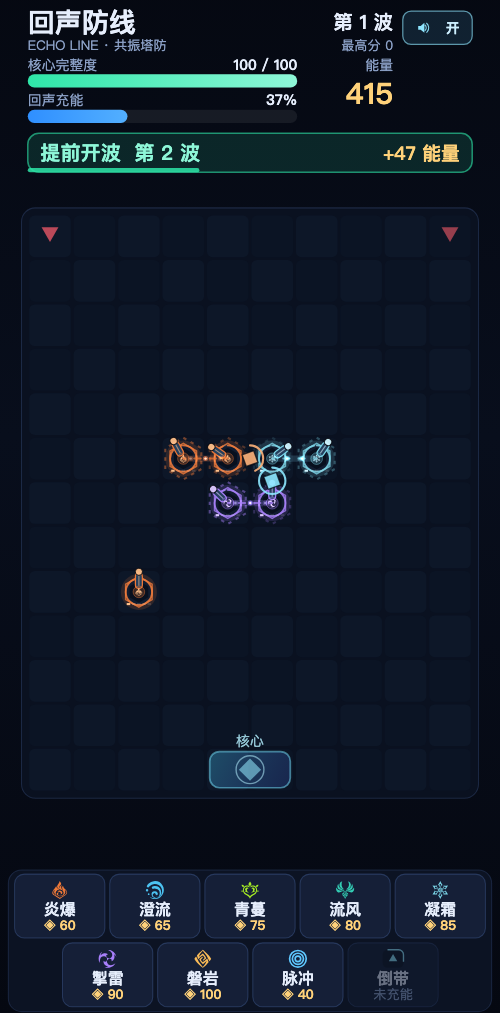
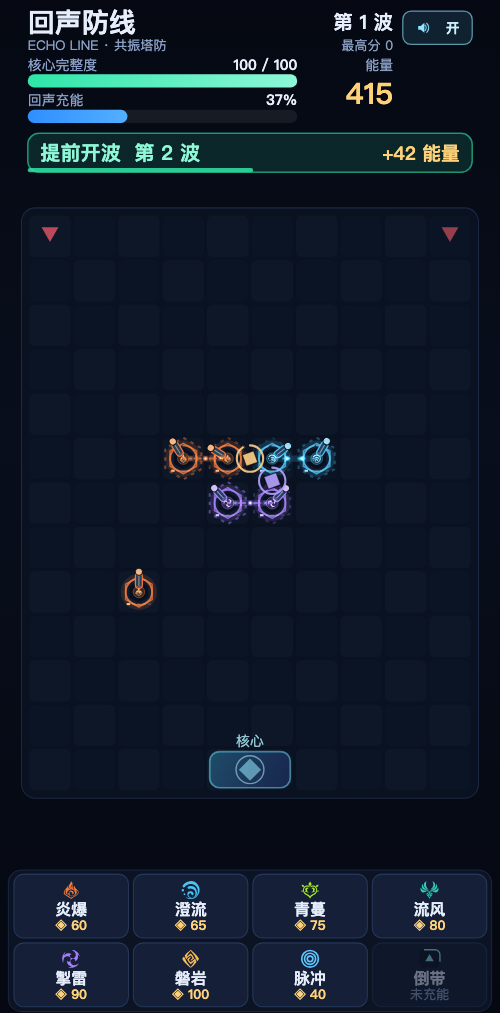
feat: 冰塔「凝霜」暂时下线，建造栏收成 8 张卡（两行 4+4）
- CFG.TOWERS.cryo 定义块与 TOWER_ORDER 里的 'cryo' 用注释下线：元素配色、5 条
  cryo 反应、icons.js 图标数据、towers.js 冻结分支、audio.js 音色派发全部留档，
  解开两处注释即完全恢复
- 卡片 9 张 → 8 张，perRow 自动变 4：卡宽 129 → 164，两行 4+4 对称
- 玩法页「七元素炮塔」改「六元素炮塔」、反应表去掉冰条目（行数不变，版式零回归）
- 自检/截图工具链的摆塔方案 cryo → hydro（simulate/preview/shot/font-check/boot）
- layout-check：塔数不再恒等于元素数，改判「每座塔的元素都有定义与图标」+「塔数 ≤ 元素数」；
  坐标锁 cardW 129 → 164
- ES5 扫描脚本的注释剔除正则修正（(^|:) 兼容单文件 grep 输出，之前会把块注释误报成代码）
- README：加冰塔留档说明、20 对反应（草+冰不反应）、澄清「减少卡片张数省不了栏高」

AI修改关键词：冰塔下线留档、可见塔数 6、卡片 4+4、卡宽 164、元素留档恢复法、断言去耦、ES5 扫描正则修正

diff --git a/js/config.js b/js/config.js
@@ -35,6 +35,8 @@
   /* ---------------- 元素（七元素，反应规则对齐原神） ----------------
    * 火pyro / 水hydro / 冰cryo / 雷electro / 风anemo / 岩geo / 草dendro
    * color 取原神元素色的近似（保夜色背景下可读），soft 是高亮/描边用浅色。
+   * 七个元素全部保留：cryo 当前没有上场塔（凝霜暂下线），但配色、图标、反应条目
+   * 全部留档 —— 少一个元素就少 6 条反应，删掉再想加回来代价太大。
    */
   CFG.ELEM = {
     pyro:    { key: 'pyro',    name: '火', color: '#ef7938', soft: '#ffc08a' },
@@ -46,8 +48,8 @@
     dendro:  { key: 'dendro',  name: '草', color: '#a5ec25', soft: '#dcff96' }
   };
 
-  /* ---------------- 防御塔（7 座，攻击方式各有分工） ----------------
-   * bolt   直射弹（火）           wave  范围减速波（水/冰，冰带冻结概率）
+  /* ---------------- 防御塔（上场 6 座，攻击方式各有分工） ----------------
+   * bolt   直射弹（火）           wave  范围减速波（水；冰同型，见下方留档块）
    * chain  连锁闪电（雷）         gust  龙卷推开（风）
    * spike  重击单体（岩）         spore 落孢毒域（草，持续伤害）
    */
@@ -72,11 +74,17 @@
       dmg: 7, range: 138, rate: 0.80,
       kind: 'gust', aoe: 96, push: 40
     },
+    /* ——— 凝霜（冰）暂时下线：整块留档，恢复 = 解开本段与 TOWER_ORDER 的注释 ———
+     * 下线原因：和水塔同为 kind:'wave'（范围减速波），定位重叠最高；
+     * 卡片从 9 张收到 8 张后正好两行 4+4，卡宽 129 → 164，元素图标看得清。
+     * 留档的东西：CFG.ELEM.cryo、RES.reactions 里的 5 条 cryo 反应、icons.js 的冰图标、
+     * towers.js 的冻结概率分支、audio.js 的 shootFrost 派发 —— 解注即全部生效。
     cryo: {
       key: 'cryo', name: '凝霜', elem: 'cryo', cost: 85, hp: 260,
       dmg: 10, range: 164, rate: 0.85,
       kind: 'wave', aoe: 58, slow: 0.50, slowT: 2.0, freezeChance: 0.22, freezeT: 1.1
     },
+    —————————————————————————————————————————————————————————————— */
     electro: {
       key: 'electro', name: '掣雷', elem: 'electro', cost: 90, hp: 240,
       dmg: 24, range: 192, rate: 0.70,
@@ -88,7 +96,10 @@
       kind: 'spike', stun: 0.45
     }
   };
-  CFG.TOWER_ORDER = ['pyro', 'hydro', 'dendro', 'anemo', 'cryo', 'electro', 'geo'];
+  /* 上场塔的元素顺序（卡片按这个顺序铺两行）。
+   * 凝霜（冰）已下线：把 'cryo' 解注回 anemo 与 electro 之间，同时解开上面 CFG.TOWERS
+   * 里的 cryo 定义块，两处一起解即完全恢复（元素、反应表、图标、音效都还在）。 */
+  CFG.TOWER_ORDER = ['pyro', 'hydro', 'dendro', 'anemo', /* 'cryo', */ 'electro', 'geo'];
 
   /** 等级成长 */
   CFG.LV = {
@@ -394,9 +405,8 @@
     var boardY = contentTop +
       Math.max(0, (barY - contentTop - CFG.BOARD_H - RESERVE_BELOW) / 2);
 
-    /* 卡片：两行铺开（7 塔 + 脉冲 + 倒带 = 9 张）。
-     * 一行 9 张时卡宽只有 72，原神元素图标缩到 12 就成了糊点，「像不像」全看运气。
-     * 改 2 行 × 每行最多 5 张：卡宽 129、图标 16，末行不足 5 张就整行居中。
+    /* 卡片：两行铺开（6 塔 + 脉冲 + 倒带 = 8 张）。
+     * 冰塔下线后正好 4 + 4 两行，卡宽从 129 涨到 164（一行挤 9 张时只有 72，图标糊成点）。
      * 顺序照旧按 TOWER_ORDER 排，所以「塔在上、技能在下」是稳定的，
      * 不会因为以后加塔把脉冲/倒带挤到第二行以外。 */
     var n = CFG.TOWER_ORDER.length + 2;

diff --git a/tools/layout-check.js b/tools/layout-check.js
@@ -167,9 +167,18 @@ const LEVELS = load({ w: 390, h: 844 }).CFG.FONT_LEVELS;
 
   const elems = Object.keys(G.CFG.ELEM);
   const missing = elems.filter(e => !G.Icons.has(e));
-  check(missing.length === 0, '七元素图标数据齐全', missing.join(', '));
-  check(G.CFG.TOWER_ORDER.length === elems.length, '每个元素都有对应炮塔',
-    `${G.CFG.TOWER_ORDER.length} vs ${elems.length}`);
+  check(missing.length === 0, '元素图标数据齐全（含留档元素）', missing.join(', '));
+  /* 塔数不再恒等于元素数：元素可以「留档」—— 凝霜（冰）暂时下线，但元素配色、
+   * 反应条目、图标数据全部保留，解注即回来。所以这里改判两件事：
+   *   ① 每座上场的塔，其元素必须有定义、有图标（这才是不崩的下限，
+   *      光断言「数量相等」会在留档时误报，也挡不住 ORDER 里写错元素名）；
+   *   ② 塔数 ≤ 元素数 —— 防止 ORDER 里出现重复项或凭空冒出的元素名。 */
+  const order = G.CFG.TOWER_ORDER;
+  const badTower = order.filter(k =>
+    !G.CFG.TOWERS[k] || !G.CFG.ELEM[G.CFG.TOWERS[k].elem] || !G.Icons.has(G.CFG.TOWERS[k].elem));
+  check(badTower.length === 0, '每座塔的元素都有定义与图标数据', badTower.join(', '));
+  check(order.length <= elems.length, '塔数不超过元素数',
+    `${order.length} vs ${elems.length}`);
 
   const thin = [], dead = [];
   const segs = [];
@@ -285,9 +294,9 @@ for (let lv = 0; lv < LEVELS.length; lv++) {
     line.checks.push(check(LAY.boardY + LAY.boardH <= LAY.barY + EPS, '棋盘在建造栏之上',
       `棋盘底 ${Math.round(LAY.boardY + LAY.boardH)} vs 栏顶 ${Math.round(LAY.barY)}`));
 
-    /* 7b) 底部卡片（7 塔 + 脉冲 + 倒带 = 9 张）：
-     *     两行铺开、每张都在栏内、两两不重叠、同行与两行之间都有呼吸位，
-     *     卡名/副标题在卡内排得下。上一版一行 9 张（卡宽只有 72）挤得看不清，
+    /* 7b) 底部卡片（塔数 + 脉冲 + 倒带，当前 6 + 2 = 8 张）：
+     *     两行 4+4 平铺、每张都在栏内、两两不重叠、同行与两行之间都有呼吸位，
+     *     卡名/副标题在卡内排得下。更早那版一行 9 张（卡宽只有 72）挤得看不清，
      *     这里的 minGap / 卡宽断言就是防它退回去。 */
     const cards = LAY.cards;
     const perRow = Math.ceil((CFG.TOWER_ORDER.length + 2) / 2);
@@ -465,7 +474,7 @@ for (let lv = 0; lv < LEVELS.length; lv++) {
         title: 36, sub: 74, hpLabel: 106, ecLabel: 164,
         hpBarY: 122, ecBarY: 180, waveBtnY: 218, soundY: 18,
         hudRight: 566, contentTop: 296, boardY: 354, barY: 1322, designH: 1558,
-        barH: 236, cardW: 129, cardH: 104
+        barH: 236, cardW: 164, cardH: 104   // cardW 129→164：凝霜下线后 8 张卡正好 4+4 两行
       };
       const now = {
         title: H.title, sub: H.sub, hpLabel: H.hpLabel, ecLabel: H.ecLabel,

diff --git a/tools/simulate.js b/tools/simulate.js
@@ -65,21 +65,23 @@ try {
 }
 
 /* ---------------------- 简易 AI ---------------------- */
-/* 一座「理想玩家」会摆出的阵地：雷引竖链 + 寒霜贴边吃超导 + 赤炎群 */
+/* 一座「理想玩家」会摆出的阵地：雷链（长共振链）+ 贴边吃感电 + 火群贴水吃蒸发。
+ * 冰塔（凝霜）下线后，原本靠它吃的超导/汽爆换成感电/蒸发 —— 反应覆盖不能因为
+ * 少一座塔就断档，否则这套「平衡曲线」自检会悄悄少跑几条分支。 */
 const PLAN = [
   // 雷引竖链（同元素 → 长共振链）
   [4, 2, 'electro'], [4, 3, 'electro'], [4, 4, 'electro'], [4, 5, 'electro'],
   [4, 6, 'electro'], [4, 7, 'electro'], [4, 8, 'electro'],
-  // 寒霜贴边（异元素 → 超导反应节点）
-  [5, 2, 'cryo'], [5, 3, 'cryo'], [5, 4, 'cryo'], [5, 6, 'cryo'],
-  // 赤炎群（共振链）+ 贴一个寒霜吃汽爆
-  [7, 3, 'pyro'], [7, 4, 'pyro'], [7, 5, 'pyro'], [7, 6, 'cryo'],
+  // 澄流贴边（异元素 → 感电：闪电在怪群之间跳）
+  [5, 2, 'hydro'], [5, 3, 'hydro'], [5, 4, 'hydro'], [5, 6, 'hydro'],
+  // 炎爆群（共振链）+ 贴一个澄流吃蒸发
+  [7, 3, 'pyro'], [7, 4, 'pyro'], [7, 5, 'pyro'], [7, 6, 'hydro'],
   // 两翼
   [8, 8, 'electro'], [8, 9, 'electro'], [1, 8, 'pyro'], [1, 9, 'pyro']
 ];
 /* 第二阶段：横砌一道墙把路彻底封死，用来验证「无路可走 → 拆塔」分支 */
-const WALL = [[0, 6, 'pyro'], [1, 6, 'pyro'], [2, 6, 'pyro'], [3, 6, 'cryo'],
-[6, 6, 'cryo'], [7, 6, 'cryo'], [8, 6, 'electro'], [9, 6, 'electro']];
+const WALL = [[0, 6, 'pyro'], [1, 6, 'pyro'], [2, 6, 'pyro'], [3, 6, 'hydro'],
+[6, 6, 'hydro'], [7, 6, 'pyro'], [8, 6, 'electro'], [9, 6, 'electro']];
 const RICH = process.argv.indexOf('--rich') >= 0;
 const SEAL = process.argv.indexOf('--seal') >= 0;
 let planIdx = 0, wallIdx = 0;

diff --git a/js/ui.js b/js/ui.js
@@ -27,7 +27,7 @@
     return G.LAY.soundBtn;
   };
 
-  /** 底部九张卡：七元素塔 + 脉冲 + 倒带（顺序跟 CFG.TOWER_ORDER 走） */
+  /** 底部卡片：上场元素塔 + 脉冲 + 倒带（顺序跟 CFG.TOWER_ORDER 走，塔数变了这里不用改） */
   UI.cardKind = function (i) {
     if (i < CFG.TOWER_ORDER.length) return { type: 'tower', key: CFG.TOWER_ORDER[i] };
     if (i === CFG.TOWER_ORDER.length) return { type: 'pulse' };
@@ -159,8 +159,8 @@
       '塔占格即成为墙，敌人会实时重新寻路绕开你',
       '完全封死时，它们会直接拆塔（塔有血量）'
     ] },
-    { t: '七元素炮塔', lines: [
-      '火直射 · 水/冰减速波 · 雷连锁闪电',
+    { t: '六元素炮塔', lines: [
+      '火直射 · 水减速波 · 雷连锁闪电',
       '风龙卷推开 · 岩重击定身 · 草落孢毒域'
     ] },
     { t: '元素共振 · 成链', lines: [
@@ -168,11 +168,11 @@
       '伤害 +16%、攻速 +8%，最多叠 7 座'
     ] },
     { t: '元素反应 · 对齐原神', lines: [
-      '火+水=蒸发 · 火+冰=融化：高爆发',
+      '火+水=蒸发：白热汽爆，高爆发',
       '火+雷=超载：爆炸并跳电弧',
-      '水+雷=感电 · 冰+雷=超导（易伤）',
-      '水+冰=冻结：范围定身',
-      '风+任意=扩散 · 岩+任意=结晶护盾',
+      '水+雷=感电：闪电在怪群间跳跃',
+      '风+任意=扩散：扯出元素并击退',
+      '岩+任意=结晶：给邻塔上护盾',
       '草+水=绽放 · 草+雷=激化 · 草+火=燃烧'
     ] },
     { t: '能量与升级', lines: [

diff --git a/tools/shot.html b/tools/shot.html
@@ -71,8 +71,8 @@
   if (scene === 'game') {
     G.Game.startRun();
     // 抱团吃共振链 + 贴边吃反应节点，两种机制都能在图上看到
-    place([[3, 5, 'pyro'], [4, 5, 'pyro'], [5, 5, 'cryo'],
-      [6, 5, 'cryo'], [4, 6, 'electro'], [5, 6, 'electro'], [2, 8, 'pyro']]);
+    place([[3, 5, 'pyro'], [4, 5, 'pyro'], [5, 5, 'hydro'],
+      [6, 5, 'hydro'], [4, 6, 'electro'], [5, 6, 'electro'], [2, 8, 'pyro']]);
     // &lv=5：把塔全部升到指定等级，验收「等级越高越华丽」的塔身渲染
     var lvShot = parseInt(q.get('lv'), 10) || 0;
     if (lvShot > 1) {
@@ -89,7 +89,7 @@
   } else if (scene === 'tech') {
     // 选中一座塔 → 打开塔面板，检查面板与 Toast 的字号
     G.Game.startRun();
-    place([[4, 5, 'pyro'], [5, 5, 'cryo'], [4, 6, 'electro']]);
+    place([[4, 5, 'pyro'], [5, 5, 'hydro'], [4, 6, 'electro']]);
     var t0 = G.Game.towers[0];
     G.Game.onTap(t0.x, t0.y);       // 点塔身 = 选中（走真实命中逻辑）
     G.Game.toast('能量不足');

diff --git a/js/render.js b/js/render.js
@@ -869,9 +869,10 @@
     ctx.stroke();
 
     /* 卡片内容：图标在中上、卡名居中、副标题（价格/状态）在下。
-     * 两行铺开之后卡宽有 129（原来一行 9 张只有 72），所以图标能放到 S(15)，
-     * 原神元素图标的细节这时候才看得出来。三行的 y 与卡高 S(104) 是一套数，
-     * 改一个就得同步改 config.js 里的 cardH，并跑 layout-check 复核。 */
+     * 冰塔下线后卡宽从 129 涨到 164（更早「一行 9 张」时只有 72），图标仍按 S(15) 画，
+     * 所以卡变宽后图标相对显小 —— 要放大只改这里的 S(15) 即可（卡内三行都随 S/F 缩放，
+     * layout-check 的「卡名不与图标叠」会拦住放过头的情况）。
+     * 三行的 y 与卡高 S(104) 是一套数，改一个就得同步改 config.js 里的 cardH。 */
     var icx = r.x + r.w / 2, icy = r.y + S(26);
     if (kind.type === 'tower') {
       elemIcon(ctx, CFG.TOWERS[kind.key].elem, icx, icy, S(15));

diff --git a/js/resonance.js b/js/resonance.js
@@ -3,7 +3,7 @@
  *
  * 规则：
  *   1) 相邻（上下左右）两座同元素塔 → 形成「共振链」，链越长，全链塔伤害与攻速越高。
- *   2) 相邻两座异元素塔 → 在交界处生成一个「反应节点」，周期性自动触发（七元素 21 对）：
+ *   2) 相邻两座异元素塔 → 在交界处生成一个「反应节点」，周期性自动触发（七元素 20 对，草+冰不反应）：
  *        蒸发(火+水) / 融化(火+冰) → 高伤爆发
  *        超载(火+雷) → 爆炸 + 电弧跳射
  *        感电(水+雷) → 连锁闪电在怪群间跳跃

diff --git a/tools/preview.html b/tools/preview.html
@@ -74,8 +74,8 @@
 
   var PLAN = [    [4, 2, 'electro'], [4, 3, 'electro'], [4, 4, 'electro'], [4, 5, 'electro'],
     [4, 6, 'electro'], [4, 7, 'electro'], [4, 8, 'electro'],
-    [5, 2, 'cryo'], [5, 3, 'cryo'], [5, 4, 'cryo'], [5, 6, 'cryo'],
-    [7, 3, 'pyro'], [7, 4, 'pyro'], [7, 5, 'pyro'], [7, 6, 'cryo'],
+    [5, 2, 'hydro'], [5, 3, 'hydro'], [5, 4, 'hydro'], [5, 6, 'hydro'],
+    [7, 3, 'pyro'], [7, 4, 'pyro'], [7, 5, 'pyro'], [7, 6, 'hydro'],
     [8, 8, 'electro'], [8, 9, 'electro'], [1, 8, 'pyro'], [1, 9, 'pyro']
   ];
 

diff --git a/tools/font-check.js b/tools/font-check.js
@@ -156,7 +156,7 @@ for (let lv = 0; lv < LEVELS.length; lv++) {
     G.Game.reset();
     G.Game.startRun();
     G.Game.energy = 99999;
-    var plans = [[3, 5, 'pyro'], [4, 5, 'pyro'], [5, 5, 'cryo'], [6, 5, 'cryo'],
+    var plans = [[3, 5, 'pyro'], [4, 5, 'pyro'], [5, 5, 'hydro'], [6, 5, 'hydro'],
       [4, 6, 'electro'], [5, 6, 'electro'], [2, 8, 'pyro']];
     for (var pi = 0; pi < plans.length; pi++) {
       G.Game.selCard = plans[pi][2];

diff --git a/tools/boot-selftest.html b/tools/boot-selftest.html
@@ -91,7 +91,7 @@ canvas{display:none}</style>
     G.Game.energy = 9999;
     G.Game.selCard = 'electro';
     if (!G.Game.tryBuild(4, 4)) throw new Error('建造失败');
-    G.Game.selCard = 'cryo';
+    G.Game.selCard = 'hydro';
     G.Game.tryBuild(5, 4);
     G.Game.selCard = 'pyro';
     G.Game.tryBuild(6, 4);

diff --git a/README.md b/README.md
@@ -10,7 +10,7 @@
 |---|---|
 | 敌人沿固定路线走，塔只管输出 | **塔会占格变成墙，敌人用流场实时重算路线绕开你** —— 你其实是在边打边造迷宫 |
 | 把路堵死就赢了 | 完全封死时，敌人会**转身直接拆你的塔** |
-| 塔之间毫无关系，堆满就行 | **元素共振**：同元素相邻成链加伤，异元素相邻按**原神规则**触发 21 种反应（蒸发 / 融化 / 超载 / 感电 / 超导 / 冻结 / 扩散 / 结晶 / 绽放 / 激化 / 燃烧） |
+| 塔之间毫无关系，堆满就行 | **元素共振**：同元素相邻成链加伤，异元素相邻按**原神规则**触发反应（蒸发 / 融化 / 超载 / 感电 / 超导 / 冻结 / 扩散 / 结晶 / 绽放 / 激化 / 燃烧） |
 | 漏怪只能干看着 | **回声倒带**：充能满可让整个战场回退 4 秒（含已漏掉的怪、已花掉的钱） |
 | 塔只能升级 | 额外有**主动技「共振脉冲」**：手动点地板放范围伤害＋眩晕 |
 | 只有静态贴图 | **22 种程序化合成音效 + 16 类特效**：爆闪、冲击波、分叉电弧、冰晶、顿帧、屏幕暗角 |
@@ -27,7 +27,8 @@
 
 ### 2. 元素共振（本作核心玩法）
 
-七元素：**火 / 水 / 冰 / 雷 / 风 / 岩 / 草**，元素图标直接用原神官方图标的矢量路径
+元素共七种：**火 / 水 / 冰 / 雷 / 风 / 岩 / 草**（当前上场六种 —— 冰塔「凝霜」暂时下线，
+见本节末尾的留档说明），元素图标直接用原神官方图标的矢量路径
 （`js/icons.js`，只有几百行路径数据，不是图片）。
 
 **同元素相邻 → 共振链**
@@ -35,16 +36,17 @@
 链在视觉上表现为塔之间流动的虚线。
 
 **异元素相邻 → 反应节点**
-在两塔交界处生成一个自动触发的节点，有独立冷却环。**21 对组合全部按下图的原神规则实现**：
+在两塔交界处生成一个自动触发的节点，有独立冷却环。**七元素两两组合共 20 对，
+除「草 + 冰」外在原神里都各有对应反应，本作全部按原神规则实现**（标 ※ 的需冰塔，当前打不出来）：
 
 | 反应 | 组合 | 效果 |
 |---|---|---|
 | 蒸发 | 火 + 水 | 白热汽爆，高额范围伤害 + 击退 |
-| 融化 | 火 + 冰 | **全表最高单发**范围伤害 |
+| 融化 ※ | 火 + 冰 | **全表最高单发**范围伤害 |
 | 超载 | 火 + 雷 | 爆炸 + 电弧跳射 4 次 |
 | 感电 | 水 + 雷 | 连锁闪电在怪群间跳 5 次 |
-| 超导 | 冰 + 雷 | 范围伤害 + 易伤（承受伤害 +25%） |
-| 冻结 | 水 + 冰 | 范围定身 |
+| 超导 ※ | 冰 + 雷 | 范围伤害 + 易伤（承受伤害 +25%） |
+| 冻结 ※ | 水 + 冰 | 范围定身 |
 | 扩散 | 风 + 任意 | 元素被"扯出去"，中范围伤害 + 强击退 |
 | 结晶 | 岩 + 任意 | 给邻塔上护盾，5 秒内免疫啃咬 |
 | 绽放 | 草 + 水 | 草原核炸开，二段伤害 |
@@ -54,8 +56,19 @@
 > 这就是本作的解题核心：**想拉满伤害要同元素抱团，想吃到反应又必须让异元素贴边。**
 > 两种需求互相拉扯，摆位本身成了策略。
 >
-> 7 座炮塔各对应一种元素，攻击方式也各有分工：火直射 / 水减速波 / 草落孢毒域 /
-> 风龙卷推离 / 冰减速+冻结 / 雷连锁 / 岩重击定身。
+> 当前 6 座炮塔各对应一种元素，攻击方式也各有分工：火直射 / 水减速波 / 草落孢毒域 /
+> 风龙卷推离 / 雷连锁 / 岩重击定身。
+
+#### 冰塔「凝霜」留档说明
+
+标 ※ 的三条反应（融化 / 超导 / 冻结）需要冰塔才会触发，当前版本打不出来。冰塔本身也已下线，
+原因是它和水塔同为 `kind:'wave'`（范围减速波），职能重叠最高；收掉一座正好把建造栏从
+9 张卡变成 8 张（两行 4+4，卡宽 129 → 164，元素图标才看得清）。
+
+**留档的东西一样没少**：`CFG.TOWERS.cryo` 的定义（注释块）、`CFG.ELEM.cryo` 的配色、
+5 条 `cryo|*` 反应的参数、`js/icons.js` 里的冰元素图标、`towers.js` 的冻结概率分支、
+`audio.js` 的 `shootFrost` 派发。**恢复 = 解开 `CFG.TOWERS` 里的注释块 + 把 `'cryo'`
+加回 `CFG.TOWER_ORDER`，两处一起解即完全生效**（建造栏会自动回到 5+4 两行）。
 
 ### 3. 回声倒带
 
@@ -114,9 +127,9 @@
 **等级越高越华丽**（Lv2 内环 → Lv3 六角饰钻 → Lv4 双旋环 → Lv5 光晕 + 环绕晶石，逐级叠加）、
 被 Boss 压制时跳短路电弧、共振链外环随链长发光。
 
-**底部建造栏**：9 张卡（7 塔 + 脉冲 + 倒带）**分两行铺开**，每行最多 5 张、末行居中。
-一行 9 张时卡宽只有 72，元素图标缩成糊点；两行之后卡宽 129、图标 S(15)，
-"哪张卡是哪个元素"才真正看得清。
+**底部建造栏**：8 张卡（6 塔 + 脉冲 + 倒带）**分两行 4+4 平铺**，末行不足时整行居中。
+冰塔还在时是 9 张、两行 5+4，卡宽被棋盘总宽锁死只有 129；冰塔下线后卡宽涨到 164，
+元素图标的细节（`elemIcon` 里那条原神官方路径）才真正看得清。
 
 ### 6. 微信安全区适配（状态栏 / 胶囊 / home 指示条）
 
@@ -346,11 +359,13 @@ echo-defense/
 
 几乎全部集中在 `js/config.js`：
 
-- `CFG.TOWERS` —— 七座塔（一元素一座）的价格、伤害、射程、攻速、耐久、攻击方式
-- `CFG.TOWER_ORDER` —— 卡片的排列顺序（建造栏按这个顺序铺两行）
-- `CFG.ELEM` —— 七元素的名称与配色（图标形状在 `js/icons.js`）
+- `CFG.TOWERS` —— 上场六座塔（一元素一座）的价格、伤害、射程、攻速、耐久、攻击方式；
+  冰塔「凝霜」的定义在同一处用注释块留档
+- `CFG.TOWER_ORDER` —— **哪几座塔上场、卡片按什么顺序铺**（两行排布由它算出来；
+  冰塔就是在这里被注释掉的）
+- `CFG.ELEM` —— 七元素的名称与配色（图标形状在 `js/icons.js`）。元素与上位与否无关，七种全留档
 - `CFG.LV` —— 每级成长率
-- `CFG.RES.reactions` —— **21 组元素反应**的全部参数（key 按元素名字母序拼接，如 `cryo|pyro` = 融化）
+- `CFG.RES.reactions` —— **20 组元素反应**的全部参数（key 按元素名字母序拼接，如 `cryo|pyro` = 融化）
 - `CFG.ECHO` —— 回声的充能速度、回溯窗口、后遗症强度
 - `CFG.ENEMIES` —— 敌人血量/速度/护甲/拆塔 DPS
 - `CFG.START_ENERGY / PREP_TIME / TOTAL_WAVES` —— 节奏与难度
@@ -386,10 +401,10 @@ HUD 各行的纵向位置、`k`（微信下的纵向压缩比）、`gapY`（HUD 
   `capsuleLeft/Bottom` 归零，右列退回浏览器那套位置 —— 顶部仍会按状态栏高度让开，只是不再避让胶囊。
 - 16:9 屏幕（iPhone 8 / SE、360×640 安卓）装了状态栏后设计区高度不够，会**等比缩小并左右各留 1.6~4.4px 黑边**。
   这是刻意的降级：棋盘 832px 是固定尺寸，缩格子会改变塔的射程与格子数的关系，从而影响平衡。
-- 建造栏由「一行 9 张」改成「两行 5+4 张」之后栏高从 164 涨到 236，
-  短屏机型（16:9）的整体缩放因此再小约 5%（高屏机型高度有富余，缩放一点不动）。
-  换来的是一行挤不进元素图标的卡宽（72 → 129）。要回收高度就减 `config.js` 里的 `cardH`，
-  但卡内三行文字会先撞上 —— 跑 `layout-check.js` 会立刻告诉你。
+- 建造栏的栏高不是常数，由卡片几何算出（`cardPadTop` × 2 + `cardH` × 2 + `rowGap` = 236）。
+  它比更早那版「一行 9 张」的 164 高 72，短屏机型（16:9）的整体缩放因此小了约 5%
+  （高屏机型高度有富余，缩放一点不动）。**注意：减少卡片张数省不了高度** —— 只要还是两行，
+  栏高就还是 236。想回收高度只能减 `cardH`，但卡内三行文字会先撞上，跑 `layout-check.js` 会立刻报。
 - **七元素图标是原神游戏内图标**（`js/icons.js` 里是 SVG 的 path 数据，来自社区镜像仓库
   [Sacr3d/genshin-icons](https://github.com/Sacr3d/genshin-icons) 提取的 `Elements/SVG`）。
   学习与自用没问题，但这些图形是米哈游的版权资产：**要商业化就得换成自己的图标**
